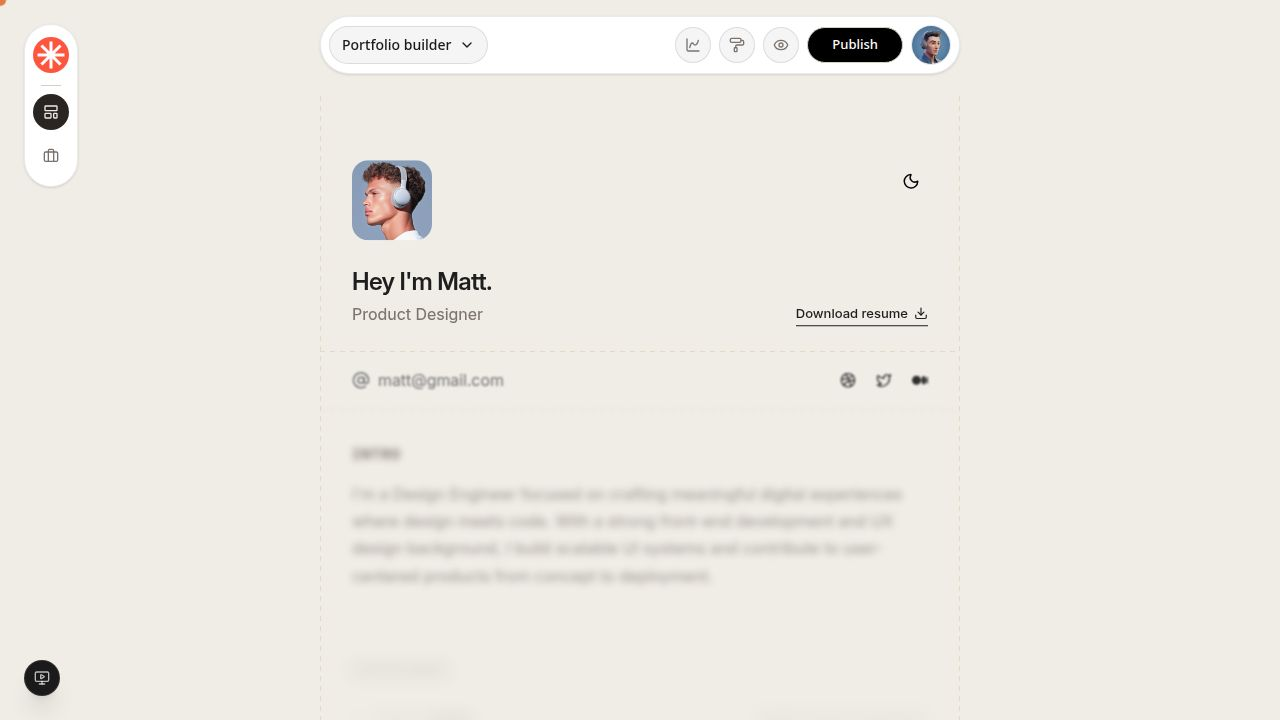
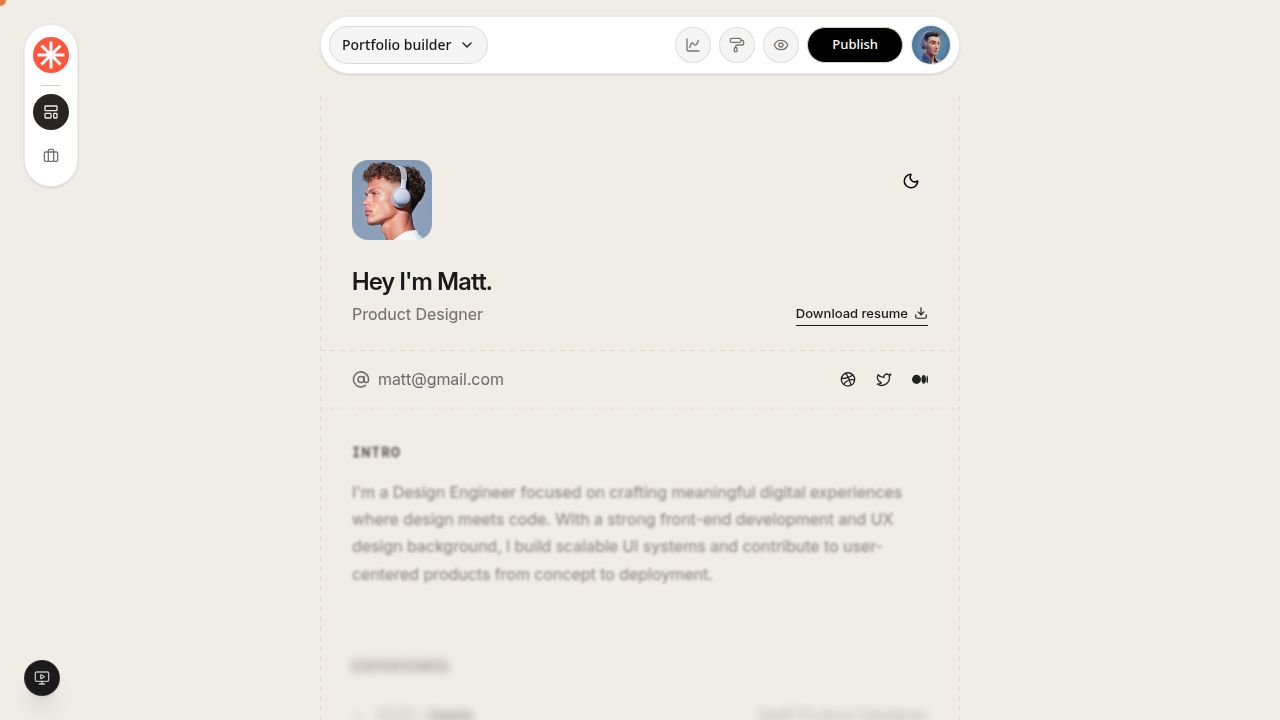
Update creative portfolio and career ladder for better display and functionality
Refactor `signup.tsx` to correctly implement scroll-based animations for the career ladder, adjust preview panel width, and ensure consistent styling with the original builder.

Replit-Commit-Author: Agent
Replit-Commit-Session-Id: 859b1bcb-4433-46cc-8374-1b426a7bb263
Replit-Commit-Checkpoint-Type: full_checkpoint
Replit-Commit-Event-Id: 0eba1677-e530-4671-b8a1-8ad8f48cbceb
Replit-Commit-Screenshot-Url: https://storage.googleapis.com/screenshot-production-us-central1/62d0f75f-c5d6-454c-8bb2-4aafc8822b8b/859b1bcb-4433-46cc-8374-1b426a7bb263/1N0UmqN
Replit-Helium-Checkpoint-Created: true

diff --git a/client/src/pages/signup.tsx b/client/src/pages/signup.tsx
@@ -1,4 +1,4 @@
-import { useState, useEffect } from "react";
+import { useState, useEffect, useRef, type RefObject } from "react";
 import { motion, AnimatePresence } from "framer-motion";
 import { useLocation } from "wouter";
 import { Eye, EyeOff, ArrowRight, Sun, Moon } from "lucide-react";
@@ -8,85 +8,98 @@ import profileImg from "@assets/image_1772896095217.png";
 import project1 from "@/assets/images/project1.png";
 import project2 from "@/assets/images/project2.png";
 
-function CreativePortfolioPreview() {
+function CreativePortfolioPreview({ scrollRef }: { scrollRef: RefObject<HTMLDivElement> }) {
   const [tick, setTick] = useState(new Date());
   const [expandedCareer, setExpandedCareer] = useState<Record<number, boolean>>({});
+  const [characterPosition, setCharacterPosition] = useState(0);
+  const careerLadderRef = useRef<HTMLDivElement>(null);
+  const ladderContainerRef = useRef<HTMLDivElement>(null);
+
   useEffect(() => {
     const id = setInterval(() => setTick(new Date()), 1000);
     return () => clearInterval(id);
   }, []);
 
-  const tags = [
-    "Interaction Design", "3D Design", "User Research", "UI/UX Design",
-    "Motion Design", "Product Strategy", "Design Systems", "Prototyping",
-  ];
+  useEffect(() => {
+    const scroller = scrollRef.current;
+    if (!scroller) return;
+    const handleScroll = () => {
+      if (!careerLadderRef.current || !ladderContainerRef.current) return;
+      const ladderRect = careerLadderRef.current.getBoundingClientRect();
+      const scrollerRect = scroller.getBoundingClientRect();
+      const containerHeight = ladderContainerRef.current.offsetHeight;
+      const viewportRelativeTop = ladderRect.top - scrollerRect.top;
+      const viewportRelativeBottom = ladderRect.bottom - scrollerRect.top;
+      const scrollerHeight = scroller.clientHeight;
+      if (viewportRelativeBottom < 0 || viewportRelativeTop > scrollerHeight) return;
+      const progress = Math.min(1, Math.max(0, -viewportRelativeTop / (ladderRect.height - scrollerHeight * 0.5)));
+      const maxPosition = containerHeight - 54;
+      setCharacterPosition(Math.min(maxPosition, Math.max(0, progress * maxPosition)));
+    };
+    scroller.addEventListener("scroll", handleScroll, { passive: true });
+    return () => scroller.removeEventListener("scroll", handleScroll);
+  }, [scrollRef]);
 
   return (
-    <div className="flex flex-col gap-3 w-full max-w-[520px] mx-auto px-2">
+    <div className="w-full flex-1 flex flex-col gap-3 pb-20 pt-0 px-4 md:px-0 max-w-[640px] mx-auto">
       {/* Date/time bar */}
       <motion.div
-        initial={{ opacity: 0, y: -20 }}
+        initial={{ opacity: 0, y: -40 }}
         animate={{ opacity: 1, y: 0 }}
-        transition={{ type: "spring", stiffness: 120, damping: 14, delay: 0.1 }}
-        className="bg-white/85 dark:bg-[#2A2520]/85 backdrop-blur-md rounded-[20px] border border-[#E5D7C4] dark:border-white/10 py-2 px-4 flex justify-between items-center"
+        transition={{ type: "spring", stiffness: 100, damping: 12, delay: 0 }}
+        className="bg-white/80 dark:bg-[#2A2520]/80 backdrop-blur-md rounded-[24px] border border-[#E5D7C4] dark:border-white/10 py-2 px-4 flex justify-between items-center w-full"
       >
         <div className="flex items-center gap-2">
-          <span className="text-[#1A1A1A] dark:text-[#F0EDE7] font-medium text-[13px]">
+          <span className="text-[#1A1A1A] dark:text-[#F0EDE7] font-medium text-sm">
             {tick.toLocaleDateString([], { weekday: "short", month: "short", day: "numeric" })}
           </span>
-          <div className="w-1.5 h-1.5 bg-[#E37941] rotate-45" />
-          <span className="text-[#1A1A1A] dark:text-[#F0EDE7] font-medium text-[13px]">
+          <div className="w-2 h-2 bg-[#E37941] rotate-45" />
+          <span className="text-[#1A1A1A] dark:text-[#F0EDE7] font-medium text-sm">
             {tick.toLocaleTimeString([], { hour: "2-digit", minute: "2-digit", second: "2-digit" })}
           </span>
-        </div>
-        <div className="flex items-center gap-1.5">
-          <div className="w-2 h-2 rounded-full bg-[#E37941] opacity-80" />
-          <span className="text-[11px] font-medium text-[#7A736C] dark:text-[#B5AFA5]">Live</span>
         </div>
       </motion.div>
 
       {/* Profile card */}
       <motion.div
-        initial={{ opacity: 0, y: -20 }}
+        initial={{ opacity: 0, y: -40 }}
         animate={{ opacity: 1, y: 0 }}
-        transition={{ type: "spring", stiffness: 120, damping: 14, delay: 0.2 }}
-        className="bg-white/85 dark:bg-[#2A2520]/85 backdrop-blur-md rounded-[28px] border border-[#E5D7C4] dark:border-white/10 p-4 flex flex-row gap-4 items-center"
+        transition={{ type: "spring", stiffness: 100, damping: 12, delay: 0.15 }}
+        className="bg-white/80 dark:bg-[#2A2520]/80 backdrop-blur-md rounded-[32px] border border-[#E5D7C4] dark:border-white/10 p-4 flex flex-col md:flex-row gap-6 items-start md:items-center w-full"
       >
-        <div className="w-20 h-20 rounded-2xl overflow-hidden shrink-0 border border-black/5 dark:border-white/10 bg-[#A1C2D8]">
+        <div className="w-28 h-28 rounded-2xl overflow-hidden shrink-0 border border-black/5 dark:border-white/10 shadow-sm bg-[#A1C2D8]">
           <img src={profileImg} alt="Profile" className="w-full h-full object-cover" />
         </div>
-        <div className="flex flex-col gap-1.5">
-          <h1 className="text-[20px] font-semibold text-[#1A1A1A] dark:text-[#F0EDE7] tracking-tight leading-tight">
-            Hey I'm Matt.
-          </h1>
-          <p className="text-[#7A736C] dark:text-[#B5AFA5] text-[13px] leading-relaxed">
-            Design Engineer crafting meaningful digital experiences where design meets code.
+        <div className="flex flex-col gap-2">
+          <h1 className="text-[24px] font-semibold text-[#1A1A1A] dark:text-[#F0EDE7] tracking-tight leading-tight">Hey I'm Matt.</h1>
+          <p className="text-[#7A736C] dark:text-[#B5AFA5] text-[16px] leading-relaxed max-w-[480px]">
+            I'm a Design Engineer focused on crafting meaningful digital experiences where design meets code.
           </p>
         </div>
       </motion.div>
 
-      {/* Marquee */}
+      {/* Marquee Tags */}
       <motion.div
-        initial={{ opacity: 0, y: 20 }}
+        initial={{ opacity: 0, y: 40 }}
         animate={{ opacity: 1, y: 0 }}
-        transition={{ type: "spring", stiffness: 120, damping: 14, delay: 0.3 }}
-        className="bg-white/85 dark:bg-[#2A2520]/85 backdrop-blur-md rounded-[20px] border border-[#E5D7C4] dark:border-white/10 py-2.5 overflow-hidden relative"
+        transition={{ type: "spring", stiffness: 100, damping: 12, delay: 0.3 }}
+        className="bg-white/80 dark:bg-[#2A2520]/80 backdrop-blur-md rounded-[24px] border border-[#E5D7C4] dark:border-white/10 py-2 overflow-hidden relative w-full"
       >
-        <div className="absolute left-0 top-0 bottom-0 w-10 bg-gradient-to-r from-white/85 dark:from-[#2A2520]/85 to-transparent z-10" />
-        <div className="absolute right-0 top-0 bottom-0 w-10 bg-gradient-to-l from-white/85 dark:from-[#2A2520]/85 to-transparent z-10" />
+        <div className="absolute left-0 top-0 bottom-0 w-12 bg-gradient-to-r from-white/80 dark:from-[#2A2520]/80 to-transparent z-10" />
+        <div className="absolute right-0 top-0 bottom-0 w-12 bg-gradient-to-l from-white/80 dark:from-[#2A2520]/80 to-transparent z-10" />
         <motion.div
           className="flex gap-4 whitespace-nowrap"
           animate={{ x: [0, "-50%"] }}
-          transition={{ ease: "linear", duration: 18, repeat: Infinity }}
+          transition={{ ease: "linear", duration: 20, repeat: Infinity }}
         >
-          {[0, 1].map((i) => (
+          {[...Array(2)].map((_, i) => (
             <div key={i} className="flex gap-4 items-center">
-              {tags.map((tag, j) => (
+              {["Interaction Design","3D Design","User Research","UI/UX Design","Motion Design","Design Systems"].map((tag, j) => (
                 <span key={j} className="flex items-center gap-4">
-                  <span className="text-[#7A736C] dark:text-[#B5AFA5] font-medium text-[11px] uppercase tracking-wider">{tag}</span>
-                  <svg className="w-2.5 h-2.5 text-[#1A1A1A] dark:text-[#F0EDE7] shrink-0" viewBox="0 0 24 24" fill="currentColor">
-                    <path d="M12 0l2 9 9 2-9 2-2 9-2-9-9-2 9-2 2-9z" />
-                  </svg>
+                  <span className="text-[#7A736C] dark:text-[#B5AFA5] font-medium text-[12px] uppercase tracking-wider">{tag}</span>
+                  <div className="w-3 h-3 text-[#1A1A1A] dark:text-[#F0EDE7]">
+                    <svg viewBox="0 0 24 24" fill="currentColor"><path d="M12 0l2 9 9 2-9 2-2 9-2-9-9-2 9-2 2-9z"/></svg>
+                  </div>
                 </span>
               ))}
             </div>
@@ -96,36 +109,36 @@ function CreativePortfolioPreview() {
 
       {/* Projects */}
       <motion.div
-        initial={{ opacity: 0, y: 20 }}
+        initial={{ opacity: 0, y: 40 }}
         animate={{ opacity: 1, y: 0 }}
-        transition={{ type: "spring", stiffness: 120, damping: 14, delay: 0.4 }}
-        className="bg-white/85 dark:bg-[#2A2520]/85 backdrop-blur-md rounded-[28px] border border-[#E5D7C4] dark:border-white/10 p-4"
+        transition={{ type: "spring", stiffness: 100, damping: 12, delay: 0.45 }}
+        className="bg-white/80 dark:bg-[#2A2520]/80 backdrop-blur-md rounded-[32px] border border-[#E5D7C4] dark:border-white/10 p-4 w-full"
       >
-        <p className="text-[#7A736C] dark:text-[#B5AFA5] text-[11px] font-mono uppercase tracking-wider mb-3">Projects</p>
-        <div className="grid grid-cols-2 gap-3">
-          <div className="flex flex-col gap-2 group/card cursor-pointer">
-            <div className="rounded-xl overflow-hidden aspect-[4/3] border border-black/5 dark:border-white/10">
-              <img src={project1} alt="Project 1" className="w-full h-full object-cover transition-transform duration-500 group-hover/card:scale-105" />
+        <h2 className="text-[#7A736C] dark:text-[#B5AFA5] text-xs font-mono mb-3" style={{ fontFamily: 'DM Mono, monospace', fontSize: '14px', fontWeight: '500' }}>PROJECTS</h2>
+        <div className="grid grid-cols-1 md:grid-cols-2 gap-6">
+          <div className="flex flex-col gap-4 group/card cursor-pointer">
+            <div className="rounded-2xl overflow-hidden aspect-[4/3] border border-black/5 dark:border-white/10 bg-[#F5F5F5] dark:bg-[#1A1A1A]">
+              <img src={project1} alt="Project 1" className="w-full h-full object-cover transition-transform duration-700 group-hover/card:scale-105" />
             </div>
             <div>
-              <h3 className="text-[12px] font-medium text-[#1A1A1A] dark:text-[#F0EDE7] leading-snug line-clamp-2">
-                Redesigning Quote Builder at Freshworks
+              <h3 className="text-base font-medium text-[#1A1A1A] dark:text-[#F0EDE7] mb-2 leading-snug line-clamp-2">
+                Redesigning Quote Builder at Freshworks for 1,900+ Enterprise Users
               </h3>
-              <p className="text-[#7A736C] dark:text-[#B5AFA5] text-[11px] mt-0.5 line-clamp-1">
-                Enterprise UX · 1,900+ users
+              <p className="text-[#7A736C] dark:text-[#B5AFA5] text-sm leading-relaxed line-clamp-2">
+                A sleek and responsive landing page designed for modern startups to showcase their product.
               </p>
             </div>
           </div>
-          <div className="flex flex-col gap-2 group/card cursor-pointer">
-            <div className="rounded-xl overflow-hidden aspect-[4/3] border border-black/5 dark:border-white/10">
-              <img src={project2} alt="Project 2" className="w-full h-full object-cover transition-transform duration-500 group-hover/card:scale-105" />
+          <div className="flex flex-col gap-4 group/card cursor-pointer">
+            <div className="rounded-2xl overflow-hidden aspect-[4/3] border border-black/5 dark:border-white/10 bg-[#F5F5F5] dark:bg-[#1A1A1A]">
+              <img src={project2} alt="Project 2" className="w-full h-full object-cover transition-transform duration-700 group-hover/card:scale-105" />
             </div>
             <div>
-              <h3 className="text-[12px] font-medium text-[#1A1A1A] dark:text-[#F0EDE7] leading-snug line-clamp-2">
-                Designfolio: No-Code Portfolio Builder
+              <h3 className="text-base font-medium text-[#1A1A1A] dark:text-[#F0EDE7] mb-2 leading-snug line-clamp-2">
+                Designfolio: No-Code Portfolio Builder for 9,000+ Users
               </h3>
-              <p className="text-[#7A736C] dark:text-[#B5AFA5] text-[11px] mt-0.5 line-clamp-1">
-                9,000+ users worldwide
+              <p className="text-[#7A736C] dark:text-[#B5AFA5] text-sm leading-relaxed line-clamp-2">
+                Helping Product folks build bragworthy portfolio websites.
               </p>
             </div>
           </div>
@@ -134,18 +147,23 @@ function CreativePortfolioPreview() {
 
       {/* Career Ladder — exact replica from Creative template */}
       <motion.div
+        ref={careerLadderRef}
         initial={{ opacity: 0, y: 40 }}
         animate={{ opacity: 1, y: 0 }}
-        transition={{ type: "spring", stiffness: 120, damping: 14, delay: 0.5 }}
-        className="bg-white/85 dark:bg-[#2A2520]/85 backdrop-blur-md rounded-[28px] border border-[#E5D7C4] dark:border-white/10 p-4 md:p-6 w-full relative"
+        transition={{ type: "spring", stiffness: 100, damping: 12, delay: 0.6 }}
+        className="bg-white/80 dark:bg-[#2A2520]/80 backdrop-blur-md rounded-[32px] border border-[#E5D7C4] dark:border-white/10 p-4 md:p-6 w-full relative"
       >
         <h2 className="text-[#7A736C] dark:text-[#B5AFA5] mb-6" style={{ fontFamily: 'DM Mono, monospace', fontSize: '14px', fontWeight: '500' }}>CAREER LADDER</h2>
 
-        <div className="relative flex">
+        <div className="relative flex" ref={ladderContainerRef}>
           {/* Climbing character */}
-          <div className="absolute left-[1px] z-20 w-[40px] h-[54px]" style={{ top: 0, willChange: 'transform' }}>
+          <motion.div
+            className="absolute left-[1px] z-20 w-[40px] h-[54px]"
+            style={{ top: characterPosition, willChange: 'transform' }}
+            transition={{ type: "spring", stiffness: 60, damping: 20 }}
+          >
             <img src="/character-me.svg" alt="Character climbing" className="w-full h-full object-contain" />
-          </div>
+          </motion.div>
           {/* Ladder rungs */}
           <div className="absolute left-0 top-3 bottom-0 w-[42px] flex flex-col justify-between items-start border-x-[5px] border-[#F0EDE7] dark:border-[#3A352E] py-1 bg-transparent">
             {[...Array(38)].map((_, i) => (
@@ -283,6 +301,7 @@ export default function Signup() {
   const isDark = theme === "dark";
   const [showPassword, setShowPassword] = useState(false);
   const [form, setForm] = useState({ name: "", email: "", password: "" });
+  const previewScrollRef = useRef<HTMLDivElement>(null);
 
   return (
     <motion.div
@@ -447,8 +466,8 @@ export default function Signup() {
         className="hidden md:flex flex-col flex-1 h-full bg-[#EFECE6] dark:bg-[#141414] overflow-hidden relative"
       >
         {/* Scrollable portfolio */}
-        <div className="flex-1 overflow-y-auto pt-6 pb-8 px-6">
-          <CreativePortfolioPreview />
+        <div ref={previewScrollRef} className="flex-1 overflow-y-auto pt-6 pb-8 px-6">
+          <CreativePortfolioPreview scrollRef={previewScrollRef} />
         </div>
 
         {/* Bottom fade */}
